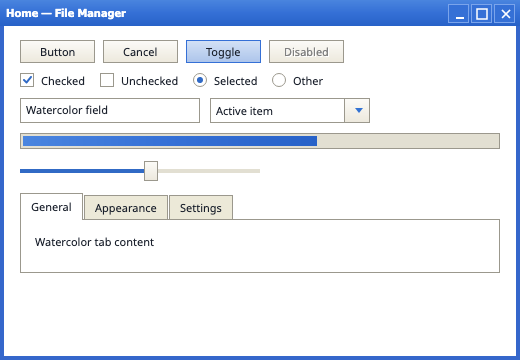
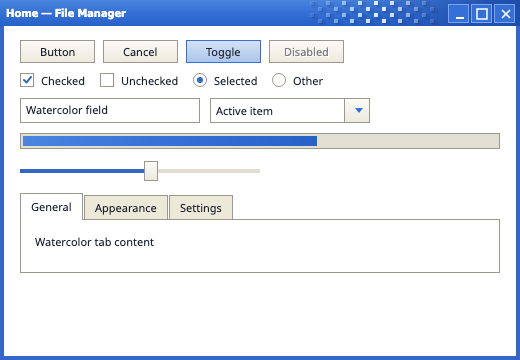
fix(themes): restore title bar shadowed pixels and bind tone to theme variant

Changed region(s): [[0.6154, 0.0, 1.0, 0.0917]]

diff --git a/docs/design/flat/before-after.html b/docs/design/flat/before-after.html
@@ -191,7 +191,7 @@
       <div class="divider"></div>
       
     </div>
-    <div class="caption"><span class="loc">full-width caption band y=0..25 (plus scattered glyph/edge rows)</span> — caption band pastel → 3-stop cobalt ramp <code>#4A85DF→#3570D6→#2862C8</code>; caption buttons + glyphs to <code>#3570D6</code>/<code>#7AA4EB</code>/white; corner radii flattened → square.</div>
+    <div class="caption"><span class="loc">full-width caption band y=0..25 (plus scattered glyph/edge rows)</span> — caption band pastel → 3-stop cobalt ramp <code>#4A85DF→#3570D6→#2862C8</code> with dual-tone shadowed floating pixel tiles; caption buttons + glyphs to <code>#3570D6</code>/<code>#7AA4EB</code>/white; corner radii flattened → square.</div>
   </div>
 
   <div class="card">

diff --git a/docs/design/flat/look-delta.md b/docs/design/flat/look-delta.md
@@ -44,7 +44,7 @@ Reference shorthand:
 | 15 | Selection — secondary | #5096F8 (README; R-CS y=532..569 x=0..390 band) | **No token exists** | **Gap — not fixable here:** no secondary-selection brush is mapped in FlatTheme.axaml (selection-inactive state). Follow-up token needed |
 | 16 | New-item selection | Pale warm yellow #FEEAB6 (README; SVG-O line 46 "New item" row fill; R-CS sparse ≈37 px due to JPEG) | Only icon tint `Flat.Brush.StartMenuFolder` #FEEAB6 (165) / `Blue2001.Brush.StartMenuPlaceIconFolder` (215) | **Gap — not fixable here:** no new-item *row* brush is consumed by the menu template; row-state mapping is a StartMenu.axaml follow-up |
 | 17 | Borders / corner radii | Square corners throughout (README direction; classic bitmap slices are square; shared Classic templates carry no radius) | Chrome `Bevel.Metric.CornerRadius` 0 (236), start menu radii 0 (142-144) ✓ — but every Flat control template rounds 1px (277 Button, 291 CheckBox, 315 TextBox, 321 ComboBox ×3, 327 ProgressBar ×2, 332 Slider ×3, 339 TabItem, 346 TabControl, 351 scroll line button, 358/361 scroll thumbs, 380 ToggleButton) | **Flatten all 1px radii → 0** |
-| 18 | Caption decoration | Clean gradient band, chrome only (R-W caption band; SVG-O header band is a plain gradient) | `PART_DualTone` translucent glass-tile canvas re-enabled on `:active` (625-627), drawing the pastel-era floating tiles over active captions | **Remove the `:active` re-show style** so the tile layer stays hidden (canvas + base style remain, dormant) |
+| 18 | Caption decoration | Clean gradient band with shadowed pixels dual-tone effect at color transition | `PART_DualTone` canvas re-enabled on `:active` with floating pixel tiles and diffuse shadows | **Keep active re-show style** so the authentic Whistler Watercolor shadowed pixel transition renders over active captions |
 
 ## 2. Applied corrections (FlatTheme.axaml, old → new)
 
@@ -59,7 +59,7 @@ Reference shorthand:
 | 226 | `Blue2001.Brush.StartMenuPlacesColumn` | cobalt gradient `#3570D6→#2862C8` | solid `#D9E3F3` |
 | 234 | `Bevel.Metric.MenuItemHeight` | `21` | `18` |
 | 277, 291, 315, 321 (×3), 327 (×2), 332 (×3), 339, 346, 351, 358, 361, 380 | control-template `CornerRadius` | `1` / `0,4,4,0` / `1,1,0,0` / `0,1,1,1` | `0` / `0` / `0,0,0,0` / `0` — pairs positionally: 321 ComboBox `0,4,4,0`→`0`, 339 TabItem `1,1,0,0`→literal `0,0,0,0`, 380 ToggleButton `0,1,1,1`→`0`, remainder `1`→`0` |
-| 625-627 | `^:active /template/ Canvas#PART_DualTone` re-show style | active captions re-enable the glass-tile canvas | style removed; canvas stays hidden |
+| 625-627 | `^:active /template/ Canvas#PART_DualTone` re-show style | active captions re-enable the glass-tile canvas | **Kept** (`PART_DualTone` active style retained for shadowed pixels effect) |
 
 Kept intentionally (already on target): frame #3567CB, white client, warm menubar #ECE9D8
 (21px), warm taskbar 30px, start-button face/hover/pressed ramps, #316AC5 selection,
